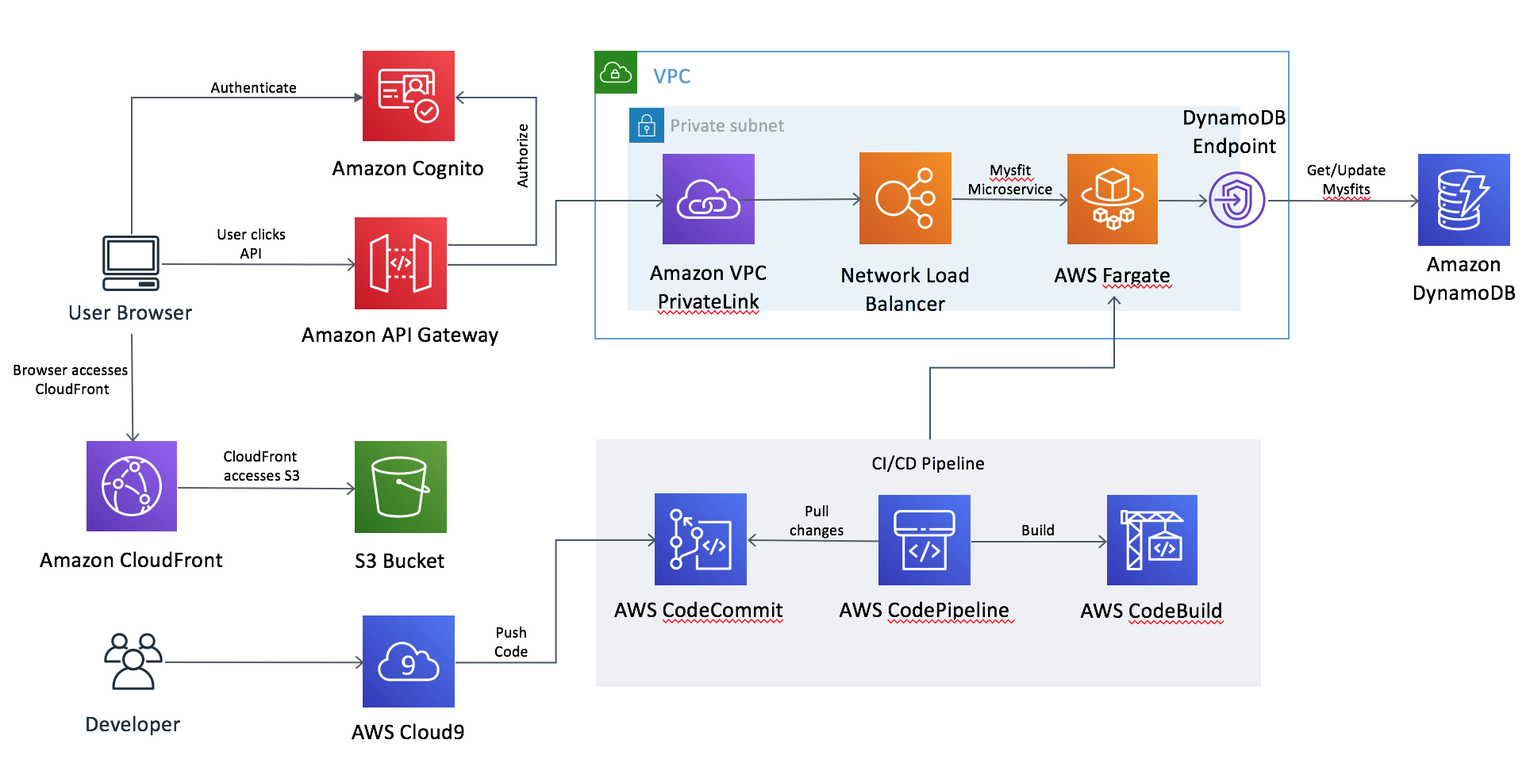
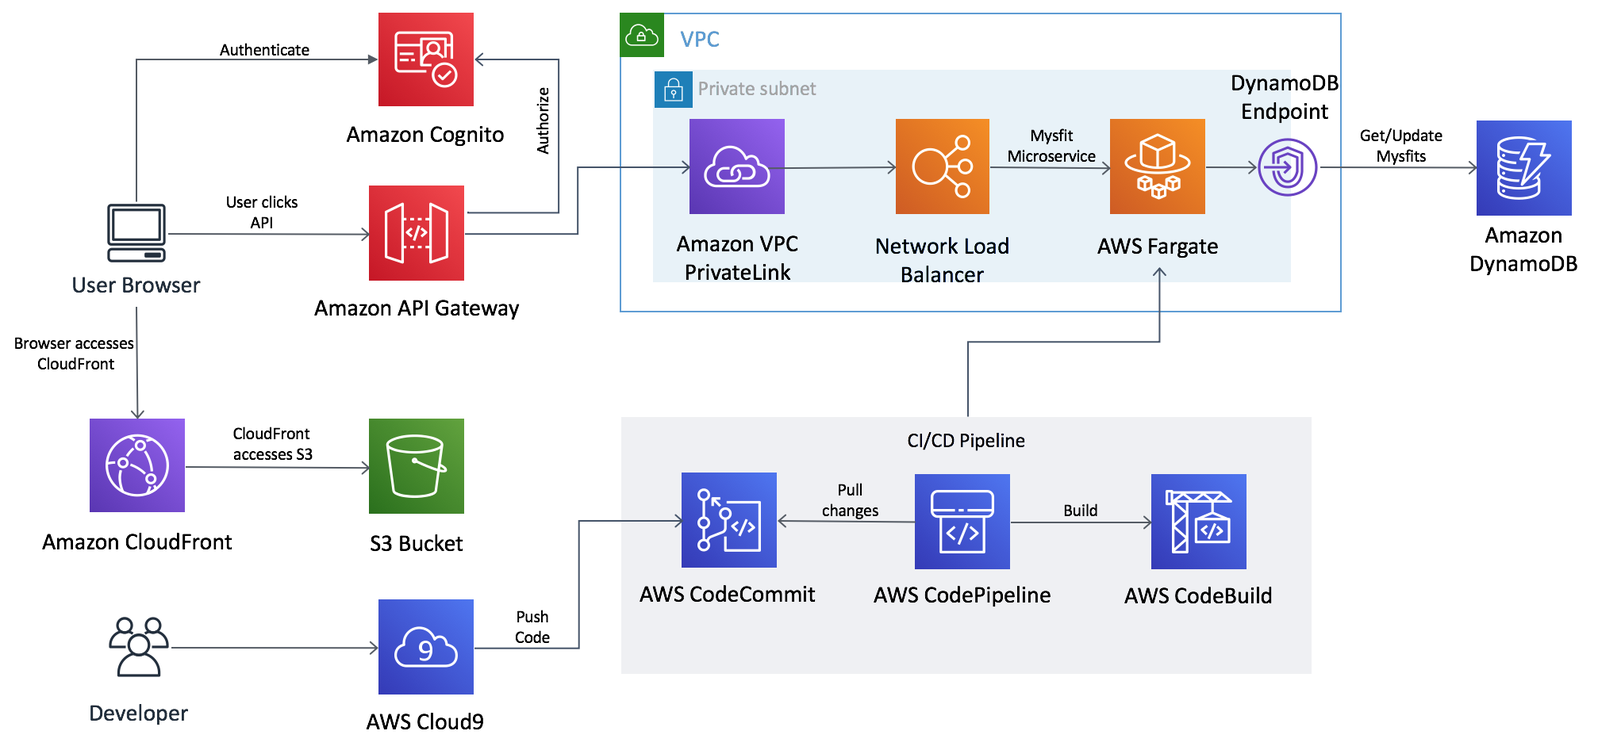
cosmetic changes

diff --git a/module-2/README.md b/module-2/README.md
@@ -12,10 +12,6 @@
 * [Amazon Elastic Container Service (ECS)](https://aws.amazon.com/ecs/)
 * [AWS Fargate](https://aws.amazon.com/fargate/)
 * [AWS Elastic Container Registry (ECR)](https://aws.amazon.com/ecr/)
-* [AWS CodeCommit](https://aws.amazon.com/codecommit/)
-* [AWS CodePipeline](https://aws.amazon.com/codepipeline/)
-* [AWS CodeDeploy](https://aws.amazon.com/codedeploy/)
-* [AWS CodeBuild](https://aws.amazon.com/codebuild/)
 
 
 ### Overview
@@ -51,7 +47,7 @@ Docker comes already installed on the Cloud9 IDE that you've created, so in orde
 * Navigate to `~/environment/module-2/app`
 
 ```
-cd ~/environment/aws-modern-application-workshop/module-2/app
+cd ~/environment/aws-summit2019-techfest/module-2/app
 ```
 
 * You can get your account ID and default region from the output of the previous CloudFormation **describe-stacks**
@@ -91,9 +87,9 @@ This will open another panel in the IDE where the web browser will be available.
 
 ![preview-menu](/images/module-2/address-bar.png)
 
-If successful you will see a response from the service that returns the JSON document stored at `/aws-modern-application-workshop/module-2/app/service/mysfits-response.json`
+If successful you will see a response from the service that returns the JSON document stored at `/aws-summit2019-techfest/module-2/app/service/mysfits-response.json`
 
-When done testing the service you can stop it by pressing CTRL-c on PC or Mac.
+When done testing the service you can stop it by pressing CTRL-c on terminal.
 
 #### Pushing the Docker Image to Amazon ECR
 
@@ -152,7 +148,7 @@ Now that we have a cluster created and a log group defined for where our contain
 
 A JSON file has been provided that will serve as the input to the CLI command.
 
-Open `~/environment/aws-modern-application-workshop/module-2/aws-cli/task-definition.json` in the IDE.
+Open `~/environment/aws-summit2019-techfest/module-2/aws-cli/task-definition.json` in the IDE.
 
 Replace the indicated values with the appropriate ones from your created resources.  
 
@@ -161,7 +157,7 @@ These values will be pulled from the CloudFormation response you copied earlier 
 Once you have replaced the values in `task-defintion.json` and saved it. Execute the following command to register a new task definition in ECS:
 
 ```
-aws ecs register-task-definition --cli-input-json file://~/environment/aws-modern-application-workshop/module-2/aws-cli/task-definition.json
+aws ecs register-task-definition --cli-input-json file://~/environment/aws-summit2019-techfest/module-2/aws-cli/task-definition.json
 ```
 
 ### Enabling a Load Balanced Fargate Service
@@ -213,22 +209,26 @@ If the above returns an error about the role existing already, you can ignore it
 
 #### Create the Service
 
-With the NLB created and configured, and the ECS service granted appropriate permissions, we're ready to create the actual ECS **service** where our containers will run and register themselves to the load balancer to receive traffic.  We have included a JSON file for the CLI input that is located at: `~/environment/aws-modern-application-workshop/module-2/aws-cli/service-definition.json`.  This file includes all of the configuration details for the service to be created, including indicating that this service should be launched with **AWS Fargate** - which means that you do not have to provision any servers within the targeted cluster.  The containers that are scheduled as part of the task used in this service will run on top of a cluster that is fully managed by AWS.
+With the NLB created and configured, and the ECS service granted appropriate permissions, we're ready to create the actual ECS **service** where our containers will run and register themselves to the load balancer to receive traffic.  We have included a JSON file for the CLI input that is located at: `~/environment/aws-summit2019-techfest/module-2/aws-cli/service-definition.json`.  This file includes all of the configuration details for the service to be created, including indicating that this service should be launched with **AWS Fargate** - which means that you do not have to provision any servers within the targeted cluster.  The containers that are scheduled as part of the task used in this service will run on top of a cluster that is fully managed by AWS.
 
-Open ```~/environment/aws-modern-application-workshop/module-2/aws-cli/service-definition.json``` in the IDE and replace the indicated values of `REPLACE_ME`. Save it, then run the following command to create the service:
+Open ```~/environment/aws-summit2019-techfest/module-2/aws-cli/service-definition.json``` in the IDE and replace the indicated values of `REPLACE_ME`. Save it, then run the following command to create the service:
 
 ```
-aws ecs create-service --cli-input-json file://~/environment/aws-modern-application-workshop/module-2/aws-cli/service-definition.json
+aws ecs create-service --cli-input-json file://~/environment/aws-summit2019-techfest/module-2/aws-cli/service-definition.json
 ```
 
 After your service is created, ECS will provision a new task that's running the container you've pushed to ECR, and register it to the created NLB.  
 
 #### Test the Service
 
-Copy the DNS name you saved when creating the NLB and send a request to it using the preview browser in Cloud9 (or by simply any web browser, since this time our service is available on the Internet). Try sending a request to the mysfits resource:
+Verify your Fargate service is up and running using AWS console. Navigate to ECS and select `MythicalMysfots-Cluster`. You should see one task running against the MythicalMysfits-Service.
+
+![fargate-service](/images/module-2/fargate-service.png)
+
+Copy the DNS name you saved when creating the NLB (in nlb-output.json) and send a request to it using the preview browser in Cloud9 (or by simply any web browser, since this time our service is available on the Internet). Try sending a request to the mysfits resource:
 
 ```
-http://mysfits-nlb-123456789-abc123456.elb.us-east-1.amazonaws.com/mysfits
+http://mysfits-nlb-xxxxx.elb.REPLACE_ME_REGION.amazonaws.com/mysfits
 ```
 
 A response showing the same JSON response we received earlier when testing the docker container locally in Cloud9 means your Flask API is up and running on AWS Fargate.
@@ -252,10 +252,10 @@ After pasting, the line should look similar to below:
 To upload this file to your S3 hosted website, use the bucket name again that was created during Module 1, and run the following command:
 
 ```
-aws s3 cp ~/environment/aws-modern-application-workshop/module-2/web/index.html s3://INSERT-YOUR-BUCKET-NAME/index.html
+aws s3 cp ~/environment/aws-summit2019-techfest/module-2/web/index.html s3://REPLACE_ME_BUCKET_NAME/index.html
 ```
 
-Open your website using the same URL used at the end of Module 1 in order to see your new Mythical Mysfits website, which is retrieving JSON data from your Flask API running within a docker container deployed to AWS Fargate!
+Open your website using the same CloudFront URL used at the end of Module 1 in order to see your new Mythical Mysfits website, which is retrieving JSON data from your Flask API running within a docker container deployed to AWS Fargate!
 
 **Note: If the page does not load completely, your browser could be preventing the loading of mixed content. This is because CloudFront connection is over https while NLB connection is over http. You can configure your browser to ignore this for now. We will sort this by using https end to end in Module 4.**
 
@@ -265,14 +265,12 @@ Open your website using the same URL used at the end of Module 1 in order to see
 ![Architecture](/images/module-2/architecture-module-2b.png)
 
 
-### Creating the CI/CD Pipeline
+### CI/CD Pipeline
 We have created the CI/CD pipeline as part of the core CloudFormation stack. Here is an overview of the different components of the pipeline.
 
 #### S3 Bucket for Pipeline Artifacts
 
 Now that you have a service up and running, you may think of code changes that you'd like to make to your Flask service.  It would be a bottleneck for your development speed if you had to go through all of the same steps above every time you wanted to deploy a new feature to your service. That's where Continuous Integration and Continuous Delivery or CI/CD come in!
-
-In this module, you will create a fully managed CI/CD stack that will automatically deliver all of the code changes that you make to your code base to the service you created during the last module.  
 
 First, we have already created a S3 bucket that will be used to store the temporary artifacts that are created in the middle of our CI/CD pipeline executions - mythicalmysfitscorestack-artifactbucket-xxxxxx
 
@@ -284,22 +282,22 @@ You'll need a place to push and store your code in. We use [**AWS CodeCommit Rep
 
 #### CodeBuild Project
 
-With a repository to store our code in, and an S3 bucket that will be used for our CI/CD artifacts, the missing piece is a way for a service build to occur.  This will be accomplished by creating an [**AWS CodeBuild Project**](https://aws.amazon.com/codebuild/).  Any time a build execution is triggered, AWS CodeBuild will automatically provision a build server to our configuration and execute the steps required to build our docker image and push a new version of it to the ECR repository we created (and then spin the server down when the build is completed).  The steps for our build (which package our Python code and build/push the Docker container) are included in the `~/environment/aws-modern-application-workshop/module-2/app/buildspec.yml` file.  The **buildspec.yml** file is what you create to instruct CodeBuild what steps are required for a build execution within a CodeBuild project.
+With a repository to store our code in, and an S3 bucket that will be used for our CI/CD artifacts, the missing piece is a way for a service build to occur.  This is accomplished by creating an [**AWS CodeBuild Project**](https://aws.amazon.com/codebuild/).  Any time a build execution is triggered, AWS CodeBuild will automatically provision a build server to our configuration and execute the steps required to build our docker image and push a new version of it to the ECR repository we created (and then spin the server down when the build is completed).  The steps for our build (which package our Python code and build/push the Docker container) are included in the `~/environment/aws-summit2019-techfest/module-2/app/buildspec.yml` file.  The **buildspec.yml** file is what you create to instruct CodeBuild what steps are required for a build execution within a CodeBuild project.
 
 #### CodePipeline Pipeline
 
 Finally, we need a way to *continuously integrate* our CodeCommit repository with our CodeBuild project so that builds will automatically occur whenever a code change is pushed to the repository.  Then, we need a way to *continuously deliver* those newly built artifacts to our service in ECS.  [**AWS CodePipeline**](https://aws.amazon.com/codepipeline/) is the service that glues these actions together in a **pipeline**.  
 
-Your pipeline in CodePipeline will do just what I described above.  Anytime a code change is pushed into your CodeCommit repository, CodePipeline will deliver the latest code to your AWS CodeBuild project so that a build will occur. When successfully built by CodeBuild, CodePipeline will perform a deployment to ECS using the latest container image that the CodeBuild execution pushed into ECR.
+Anytime a code change is pushed into your CodeCommit repository, CodePipeline will deliver the latest code to your AWS CodeBuild project so that a build will occur. When successfully built by CodeBuild, CodePipeline will perform a deployment to ECS using the latest container image that the CodeBuild execution pushed into ECR.
 
 Navigate to the CodePipeline console and spend a few minutes to explore it. You may see the source stage has failed. You can ignore this as our repository is empty now.
 
 #### Enable Automated Access to ECR Image Repository
 
-We have one final step before our CI/CD pipeline can execute end-to-end successfully. With a CI/CD pipeline in place, you won't be manually pushing container images into ECR anymore.  CodeBuild will be pushing new images now. We need to give CodeBuild permission to perform actions on your image repository with an **ECR repository policy***.  The policy document needs to be updated with the specific ARN for the CodeBuild role created by the MythicalMysfitsCoreStack, and the policy document is located at `~/environment/aws-modern-application-workshop/module-2/aws-cli/ecr-policy.json`.  Update and save this file and then run the following command to create the policy:
+We have one final step before our CI/CD pipeline can execute end-to-end successfully. With a CI/CD pipeline in place, you won't be manually pushing container images into ECR anymore.  CodeBuild will be pushing new images now. We need to give CodeBuild permission to perform actions on your image repository with an **ECR repository policy**.  The policy document needs to be updated with the specific ARN for the CodeBuild role created by the MythicalMysfitsCoreStack, and the policy document is located at `~/environment/aws-summit2019-techfest/module-2/aws-cli/ecr-policy.json`.  You will find the role arn in cloudformation-core-output.json. Update and save this file and then run the following command to create the policy:
 
 ```
-aws ecr set-repository-policy --repository-name mythicalmysfits/service --policy-text file://~/environment/aws-modern-application-workshop/module-2/aws-cli/ecr-policy.json
+aws ecr set-repository-policy --repository-name mythicalmysfits/service --policy-text file://~/environment/aws-summit2019-techfest/module-2/aws-cli/ecr-policy.json
 ```
 
 When that has been created successfully, you have a working end-to-end CI/CD pipeline to deliver code changes automatically to your service in ECS.
@@ -336,13 +334,13 @@ cd ~/environment/
 Now, we are ready to clone our repository using the following terminal command:
 
 ```
-git clone https://git-codecommit.REPLACE_REGION.amazonaws.com/v1/repos/MythicalMysfitsService-Repository
+git clone https://git-codecommit.REPLACE_ME_REGION.amazonaws.com/v1/repos/MythicalMysfitsService-Repository
 ```
 
 This will tell us that our repository is empty!  Let's fix that by copying the application files into our repository directory using the following command:
 
 ```
-cp -r ~/environment/aws-modern-application-workshop/module-2/app/* ~/environment/MythicalMysfitsService-Repository/
+cp -r ~/environment/aws-summit2019-techfest/module-2/app/* ~/environment/MythicalMysfitsService-Repository/
 ```
 
 #### Pushing a Code Change

diff --git a/module-1/README.md b/module-1/README.md
@@ -55,7 +55,7 @@ When the IDE has finished being created for you, you'll be presented with a welc
 In the bottom panel of your new Cloud9 IDE, you will see a terminal command line terminal open and ready to use.  Run the following git command in the terminal to clone the necessary code to complete this tutorial:
 
 ```
-git clone -b python https://github.com/aws-asean-builders/aws-modern-application-workshop.git
+git clone -b python https://github.com/aws-asean-builders/aws-summit2019-techfest.git
 ```
 
 After cloning the repository, you'll see that your project explorer now includes the files cloned:
@@ -65,11 +65,11 @@ After cloning the repository, you'll see that your project explorer now includes
 In the terminal, change directory to the newly cloned repository directory:
 
 ```
-cd aws-modern-application-workshop
+cd aws-summit2019-techfest
 ```
 
 ### Creating a Website with Amazon CloudFront and Amazon S3
-We will create the infrastructure components needed for this lab via the ![AWS CLI](https://aws.amazon.com/cli/). If you do not already have the AWS CLI configured see ![getting started](http://docs.aws.amazon.com/cli/latest/userguide/).
+We will create the infrastructure components needed for this lab via the [AWS CLI](https://aws.amazon.com/cli/). If you do not already have the AWS CLI configured see [getting started](http://docs.aws.amazon.com/cli/latest/userguide/).
 
 We have pre-created some of the services for you including the Amazon S3 bucket to host your website and the Amazon CloudFront distribution.
 
@@ -79,37 +79,45 @@ On your AWS console, type S3 into the service search bar and select it. You will
 
 All buckets created in Amazon S3 are fully private by default. In order to be used as a website accessible only through CloudFront, we need to create an S3 [Bucket Policy](https://docs.aws.amazon.com/AmazonS3/latest/dev/example-bucket-policies.html) that indicates objects stored within this new bucket may be accessed by only your CloudFront origin access identity that you create. 
 
-The JSON document for the necessary bucket policy is located at: `~/environment/aws-modern-application-workshop/module-1/aws-cli/website-bucket-policy.json`.  This file contains two strings that need to be replaced, the Id (indicated with `REPLACE_ME_CLOUDFRONT_ORIGIN_ACCESS_IDENTITY_ID`), and the bucket name above (indicated with `REPLACE_ME_BUCKET_NAME`). 
+The JSON document for the necessary bucket policy is located at: `~/environment/aws-summit2019-techfest/module-1/aws-cli/website-bucket-policy.json`.  This file contains two strings that need to be replaced, the Id (indicated with `REPLACE_ME_CLOUDFRONT_ORIGIN_ACCESS_IDENTITY_ID`), and the bucket name above (indicated with `REPLACE_ME_BUCKET_NAME`). 
 
-First we need to get the CloudFront Access Identity. You can check on the status of the CloudFront distribution by using the CLI command:
+First we need to get the CloudFront Access Identity. You can use the CLI command below:
 
 ```
-aws cloudfront list-distributions
+aws cloudfront list-distributions --query 'DistributionList.Items[*].{Id:Id, DomainName:DomainName, Comment:Comment, Status:Status, OriginAccessIdentity:Origins.Items[0].S3OriginConfig}'
 ```
 
-Note the `DomainName` as that will be your web site. After CloudFront creates your distribution, the value of `Status` will change from In Progress to Deployed.
+If you have multiple distributions, you will see multiple outputs. The one created by theh core stack you deployed earlier will have the `Comment` field set to `"CloudFront Distribution for Mysfits lab."`. Note the `CloudFrontDomainName` as you will use that to access your web site. The value of `Status` should be set to Deployed.
 For more information, see [Testing a Web Distribution](https://docs.aws.amazon.com/AmazonCloudFront/latest/DeveloperGuide/distribution-web-testing.html) in the CloudFront documentation.
 
 The command output will also display the origin access identity under Origins.
 
-Example origin configuration:
+Example output configuration:
 ```
-"Origins": {
-    "Items": [
-        {
-            "S3OriginConfig": {
-                "OriginAccessIdentity": "origin-access-identity/cloudfront/REPLACE_ME_CLOUDFRONT_ORIGIN_ACCESS_IDENTITY_ID"
-            }, 
-            "OriginPath": "", 
-            "CustomHeaders": {
-                "Quantity": 0
-            }, 
-            "Id": "S3Origin", 
-            "DomainName": "REPLACE_ME_BUCKET_NAME.s3.amazonaws.com"
-        }
-    ], 
-    "Quantity": 1
-}
+[
+    {
+        ... (other distributions if any)
+    }, 
+    {
+        "Comment": "CloudFront Distribution for Mysfits lab.", 
+        "Status": "Deployed", 
+        "Id": "xxxxxxxx", 
+        "Origins": [
+            {
+                "S3OriginConfig": {
+                    "OriginAccessIdentity": "origin-access-identity/cloudfront/REPLACE_ME_CLOUDFRONT_ORIGIN_ACCESS_IDENTITY_ID"
+                }, 
+                "OriginPath": "", 
+                "CustomHeaders": {
+                    "Quantity": 0
+                }, 
+                "Id": "S3Origin", 
+                "DomainName": "REPLACE_ME_BUCKET_NAME.s3.amazonaws.com"
+            }
+        ], 
+        "CloudFrontDomainName": "xxxxxxxx.cloudfront.net"
+    }
+]
 ```
 
   * If this was a web site used for more than just testing you should enable logging, and consider the AWS Web Application Firewall (WAF) service to help protect. For more information on the other configuration options, see [Values That You Specify When You Create or Update a Web Distribution](https://docs.aws.amazon.com/AmazonCloudFront/latest/DeveloperGuide/distribution-web-values-specify.html) in the CloudFront documentation.
@@ -127,7 +135,7 @@ This will open `bucket-policy.json` in the File Editor panel.  Replace the strin
 Execute the following CLI command to add a public bucket policy to allow CloudFront:
 
 ```
-aws s3api put-bucket-policy --bucket REPLACE_ME_BUCKET_NAME --policy file://~/environment/aws-modern-application-workshop/module-1/aws-cli/website-bucket-policy.json
+aws s3api put-bucket-policy --bucket REPLACE_ME_BUCKET_NAME --policy file://~/environment/aws-summit2019-techfest/module-1/aws-cli/website-bucket-policy.json
 ```
 
 #### Publish the Website Content to S3
@@ -135,7 +143,7 @@ aws s3api put-bucket-policy --bucket REPLACE_ME_BUCKET_NAME --policy file://~/en
 Now that our S3 bucket is configured, let's add the first iteration of the Mythical Mysfits homepage to the bucket.  Use the following S3 CLI command that mimics the linux command for copying files (**cp**) to copy the provided index.html page locally from your IDE up to the new S3 bucket (replacing the bucket name appropriately).
 
 ```
-aws s3 cp ~/environment/aws-modern-application-workshop/module-1/web/index.html s3://REPLACE_ME_BUCKET_NAME/index.html
+aws s3 cp ~/environment/aws-summit2019-techfest/module-1/web/index.html s3://REPLACE_ME_BUCKET_NAME/index.html
 ```
 
 You have now configured Amazon CloudFront with basic settings and S3 as origin.
@@ -144,7 +152,7 @@ For more information on configuring CloudFront, see [Viewing and Updating CloudF
 
 #### Test Website
 
-Now, it can take some time e.g. 15 to 30 minutes for your newly created S3 bucket to be accessible by CloudFront, as it is a global network of 100+ edge locations. Open up your favorite web browser and enter the **Domain Name** from the CloudFront console, it will be a series of characters and end in cloudfront.net. If you get an error and/or redirect to the S3 bucket wait some more time.
+Now, it can take some time e.g. 15 to 30 minutes for your newly created S3 bucket to be accessible by CloudFront, as it is a global network of 100+ edge locations. Open up your favorite web browser and enter the **CloudFrontDomainName** from the CLI command output above, it will be a series of characters and end in cloudfront.net. If you get an error and/or redirect to the S3 bucket wait some more time.
 
 ![mysfits-welcome](/images/module-1/mysfits-welcome.png)
 

diff --git a/module-4/README.md b/module-4/README.md
@@ -29,13 +29,15 @@ Copy the response from the above command, which includes the unique ID for your 
 Next, in order to integrate our frontend website with Cognito, we must create a new **User Pool Client** for this user pool. This generates a unique client identifier that will allow our website to be authorized to call the unauthenticated APIs in cognito where website users can sign-in and register against the Mythical Mysfits user pool.  To create a new client using the AWS CLI for the above user pool, run the following command (replacing the `--user-pool-id` value with the one you copied above):
 
 ```
-aws cognito-idp create-user-pool-client --user-pool-id REPLACE_ME --client-name MysfitsUserPoolClient
+aws cognito-idp create-user-pool-client --user-pool-id REPLACE_ME_USER_POOL_ID --client-name MysfitsUserPoolClient
 ```
 
 ### Adding a new REST API with Amazon API Gateway
 
 #### Create an API Gateway VPC Link
-Next, let's turn our attention to creating a new RESTful API in front of our existing Flask service, so that we can perform request authorization before our NLB receives any requests.  We will do this with **Amazon API Gateway**, as described in the module overview.  In order for API Gateway to privately integrate with our NLB, we will configure an **API Gateway VPC Link** that enables API Gateway APIs to directly integrate with backend web services that are privately hosted inside a VPC. **Note:** For the purposes of this workshop, we created the NLB to be *internet-facing* so that it could be called directly in earlier modules. Because of this, even though we will be requiring Authorization tokens in our API after this module, our NLB will still actually be open to the public behind the API Gateway API.  In a real-world scenario, you should create your NLB to be *internal* from the beginning (or create a new internal load balancer to replace the existing one), knowing that API Gateway would be your strategy for Internet-facing API authorization.  But for the sake of time, we'll use the NLB that we've already created that will stay publicly accessible.
+Next, let's turn our attention to creating a new RESTful API in front of our existing Flask service, so that we can perform request authorization before our NLB receives any requests.  We will do this with **Amazon API Gateway**.  In order for API Gateway to privately integrate with our NLB, we will configure an **API Gateway VPC Link** that enables API Gateway APIs to directly integrate with backend web services that are privately hosted inside a VPC. 
+
+**Note:** For the purposes of this workshop, we created the NLB to be *internet-facing* so that it could be called directly in earlier modules. Because of this, even though we will be requiring Authorization tokens in our API after this module, our NLB will still actually be open to the public behind the API Gateway API. In a real-world scenario, you should create your NLB to be *internal* from the beginning (or create a new internal load balancer to replace the existing one), knowing that API Gateway would be your strategy for Internet-facing API authorization.  But for the sake of time, we'll use the NLB that we've already created that will stay publicly accessible.
 
 Create the VPC Link for our upcoming REST API using the following CLI command (you will need to replace the indicated value with the Load Balancer ARN you saved when the NLB was created in module 2):
 
@@ -69,7 +71,7 @@ The `securityDefinitions` object within the API definition indicates that we hav
 CTRL-F through the file to search for the various places `REPLACE_ME` is located and awaiting your specific parameters.  Once the edits have been made, save the file and execute the following AWS CLI command:
 
 ```
-aws apigateway import-rest-api --parameters endpointConfigurationTypes=REGIONAL --body file://~/environment/aws-modern-application-workshop/module-4/aws-cli/api-swagger.json --fail-on-warnings
+aws apigateway import-rest-api --parameters endpointConfigurationTypes=REGIONAL --body file://~/environment/aws-summit2019-techfest/module-4/aws-cli/api-swagger.json --fail-on-warnings
 ```
 
 Copy the response this command returns and save the `id` value for the next step:
@@ -92,13 +94,13 @@ Copy the response this command returns and save the `id` value for the next step
 Now, our API has been created, but it's yet to be deployed anywhere. To deploy our API, we must first create a deployment and indicate which **stage** the deployment is fore.  A stage is a named reference to a deployment, which is a snapshot of the API. You use a Stage to manage and optimize a particular deployment. For example, you can set up stage settings to enable caching, customize request throttling, configure logging, define stage variables or attach a canary release for testing.  We will call our stage `prod`. To create a deployment for the prod stage, execute the following CLI command:
 
 ```
-aws apigateway create-deployment --rest-api-id REPLACE_ME_WITH_API_ID --stage-name prod
+aws apigateway create-deployment --rest-api-id REPLACE_ME_API_ID --stage-name prod
 ```
 
 With that, our REST API that's capable of user Authorization is deployed and available on the Internet... but where?!  Your API is available at the following location:
 
 ```
-https://REPLACE_ME_WITH_API_ID.execute-api.REPLACE_ME_WITH_REGION.amazonaws.com/prod
+https://REPLACE_ME_API_ID.execute-api.REPLACE_ME_REGION.amazonaws.com/prod
 ```
 
 Copy the above, replacing the appropriate values, and add `/mysfits` to the end of the URI.  Entered into a browser address bar, you should once again see your Mysfits JSON response.  But, we've added several capabilities like adopting and liking mysfits that our Flask service backend doesn't have implemented yet.
@@ -117,7 +119,7 @@ cd ~/environment/MythicalMysfitsService-Repository/
 ```
 
 ```
-cp -r ~/environment/aws-modern-application-workshop/module-4/app/* .
+cp -r ~/environment/aws-summit2019-techfest/module-4/app/* .
 ```
 
 ```
@@ -136,7 +138,7 @@ While those service updates are being automatically pushed through your CI/CD pi
 
 #### Update the Mythical Mysfits Website in S3
 
-Open the new version of the Mythical Mysfits index.html file we will push to S3 shortly, it is located at: `~/environment/aws-modern-application-workshop/module-4/app/web/index.html`
+Open the new version of the Mythical Mysfits index.html file we will push to S3 shortly, it is located at: `~/environment/aws-summit2019-techfest/module-4/app/web/index.html`
 In this new index.html file, you'll notice additional HTML and JavaScript code that is being used to add a user registration and login experience.  This code is interacting with the AWS Cognito JavaScript SDK to help manage registration, authentication, and authorization to all of the API calls that require it.
 
 In this file, replace the strings **REPLACE_ME** inside the single quotes with the OutputValues you copied from above and save the file:
@@ -148,7 +150,7 @@ Also, for the user registration process, you have an additional two HTML files t
 Now, lets copy these HTML files, as well as the Cognito JavaScript SDK to the S3 bucket hosting our Mythical Mysfits website content so that the new features will be published online.
 
 ```
-aws s3 cp --recursive ~/environment/aws-modern-application-workshop/module-4/web/ s3://YOUR-S3-BUCKET/
+aws s3 cp --recursive ~/environment/aws-summit2019-techfest/module-4/web/ s3://REPLACE_ME_BUCKET_NAME/
 ```
 
 Refresh the Mythical Mysfits website in your browser to see the new functionality in action!

diff --git a/module-3/README.md b/module-3/README.md
@@ -15,12 +15,12 @@ Now that you have a service deployed and a working CI/CD pipeline to deliver cha
 
 #### Create a DynamoDB Table
 
-To add a DynamoDB table to the architecture, we have included another JSON CLI input file that defines a table called **MysfitsTable**. This table will have a primary index defined by a hash key attribute called **MysfitId**, and two more secondary indexes.  The first secondary index will have the hash key of **GoodEvil** and a range key of **MysfitId**, and the second secondary index will have the hash key of **LawChaos** and a range key of **MysfitId**.  These two secondary indexes will allow us to execute queries against the table to retrieve all of the mysfits that match a given Species or Alignment to enable the filter functionality you may have noticed isn't yet working on the website.  You can view this file at `~/environment/aws-modern-application-workshop/module-3/aws-cli/dynamodb-table.json`. No changes need to be made to this file and it is ready to execute.  To learn more about indexes in DynamoDB and other core concepts, visit [this page](https://docs.aws.amazon.com/amazondynamodb/latest/developerguide/HowItWorks.CoreComponents.html).
+To add a DynamoDB table to the architecture, we have included another JSON CLI input file that defines a table called **MysfitsTable**. This table will have a primary index defined by a hash key attribute called **MysfitId**, and two more secondary indexes.  The first secondary index will have the hash key of **GoodEvil** and a range key of **MysfitId**, and the second secondary index will have the hash key of **LawChaos** and a range key of **MysfitId**.  These two secondary indexes will allow us to execute queries against the table to retrieve all of the mysfits that match a given Species or Alignment to enable the filter functionality you may have noticed isn't yet working on the website.  You can view this file at `~/environment/aws-summit2019-techfest/module-3/aws-cli/dynamodb-table.json`. No changes need to be made to this file and it is ready to execute.  To learn more about indexes in DynamoDB and other core concepts, visit [this page](https://docs.aws.amazon.com/amazondynamodb/latest/developerguide/HowItWorks.CoreComponents.html).
 
 To create the table using the AWS CLI, execute the following command in the Cloud9 terminal:
 
 ```
-aws dynamodb create-table --cli-input-json file://~/environment/aws-modern-application-workshop/module-3/aws-cli/dynamodb-table.json
+aws dynamodb create-table --cli-input-json file://~/environment/aws-summit2019-techfest/module-3/aws-cli/dynamodb-table.json
 ```
 
 After the command runs, you can view the details of your newly created table by executing the following AWS CLI command in the terminal:
@@ -49,7 +49,7 @@ aws dynamodb scan --table-name MysfitsTable
 Also provided is a JSON file that can be used to batch insert a number of Mysfit items into this table.  This will be accomplished through the DynamoDB API **BatchWriteItem.** To call this API using the provided JSON file, execute the following terminal command (the response from the service should report that there are no items that went unprocessed):
 
 ```
-aws dynamodb batch-write-item --request-items file://~/environment/aws-modern-application-workshop/module-3/aws-cli/populate-dynamodb.json
+aws dynamodb batch-write-item --request-items file://~/environment/aws-summit2019-techfest/module-3/aws-cli/populate-dynamodb.json
 ```
 
 Now, if you run the same command to scan all of the table contents, you'll find the items have been loaded into the table:
@@ -66,7 +66,7 @@ Now that we have our data included in the table, let's modify our application co
 The request is formed using the AWS Python SDK called **boto3**. This SDK is a powerful yet simple way to interact with AWS services via Python code. It enables you to use service client definitions and functions that have great symmetry with the AWS APIs and CLI commands you've already been executing as part of this workshop.  Translating those commands to working Python code is simple when using **boto3**.  To copy the new files into your CodeCommit repository directory, execute the following command in the terminal:
 
 ```
-cp ~/environment/aws-modern-application-workshop/module-3/app/service/* ~/environment/MythicalMysfitsService-Repository/service/
+cp ~/environment/aws-summit2019-techfest/module-3/app/service/* ~/environment/MythicalMysfitsService-Repository/service/
 ```
 
 #### Push the Updated Code into the CI/CD Pipeline

diff --git a/README.md b/README.md
@@ -6,7 +6,7 @@
 
 **AWS Experience: Beginner**
 
-**Time to Complete: 3-4 hours**
+**Time to Complete: 2-3 hours**
 
 **Cost to Complete: Many of the services used are included in the AWS Free Tier. For those that are not, the sample application will cost, in total, less than $1/day.**
 
@@ -44,10 +44,14 @@ This web application can be deployed in any AWS region that supports all the ser
 * us-west-2 (Oregon)
 
 Navigate to CloudFormation on your AWS console and click on "Create stack". Select "Upload a template file" and choose the template you saved.
+
 ![cfn-upload-template](/images/cfn-upload-template.png)
 
-Click "Next" and specify stack name as MythicalMysfitsCoreStack. Click "Next" and leave stack options unchanged. Ont the next screen, acknowledge the creation of IAM respurces and click "Create stack".
+
+Click "Next" and specify stack name as MythicalMysfitsCoreStack. Click "Next" and leave stack options unchanged. On the next screen, acknowledge the creation of IAM resources and click "Create stack".
+
 ![cfn-create-stack](/images/cfn-create-stack.png)
+
 
 ## Begin the Modern Application Workshop
 
